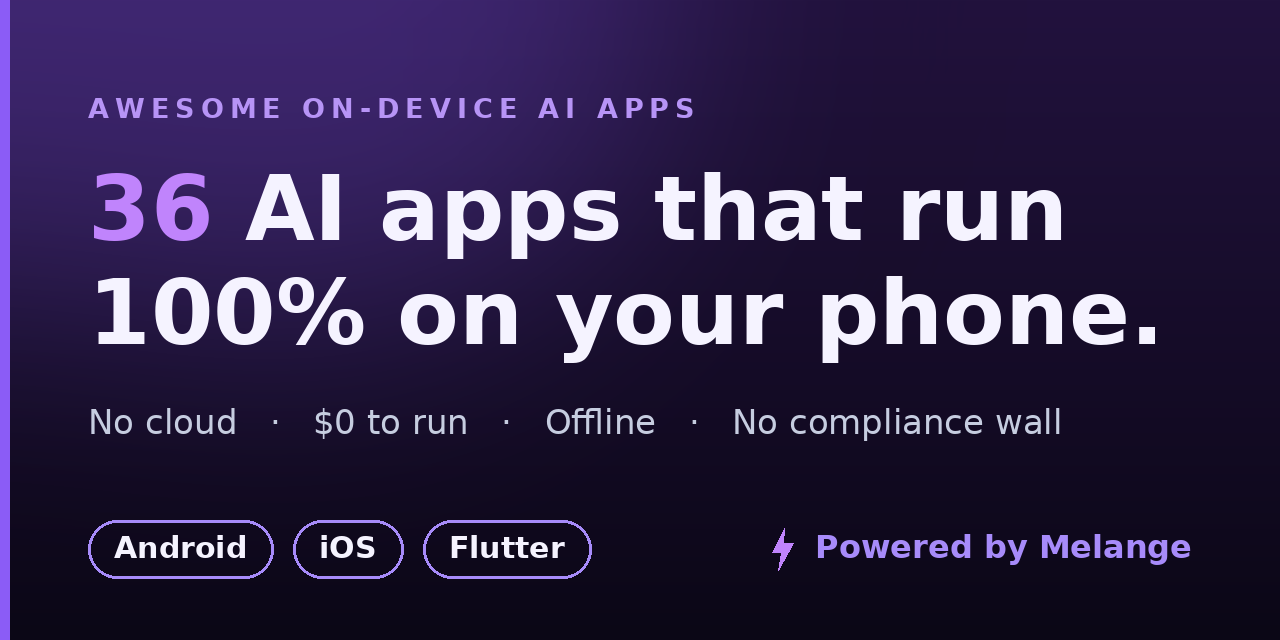
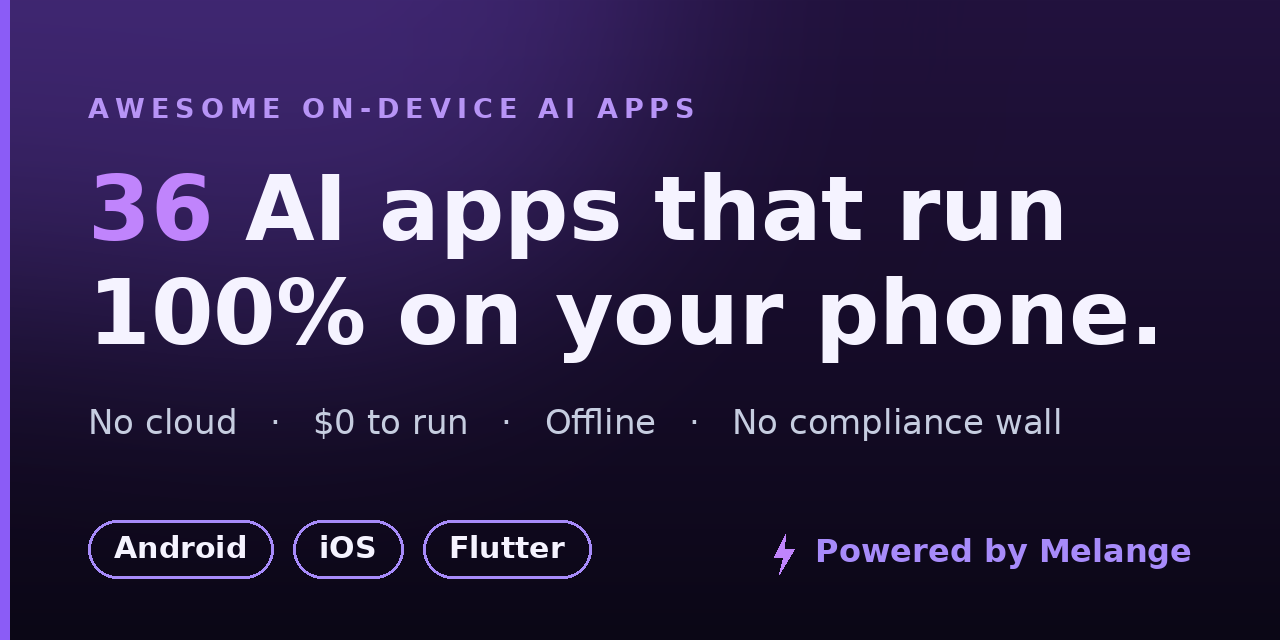
Add vibe-coding social card variant
Second 1280x640 card on the same brand system: 'Your AI coding agent
can't build on-device apps. These 36 can.' The generator now renders both
the concrete-claim card and the vibe-coding hook card.

Changed region(s): [[0.5938, 0.8125, 0.9375, 0.9062]]

diff --git a/docs/assets/make_social_preview.py b/docs/assets/make_social_preview.py
@@ -1,24 +1,21 @@
 #!/usr/bin/env python3
-"""Render the GitHub social preview card (1280x640 PNG).
+"""Render the GitHub social preview cards (1280x640 PNG).
 
     python3 docs/assets/make_social_preview.py
 
-Output: docs/assets/social-preview.png
-Upload it at repo Settings -> General -> Social preview.
+Outputs:
+  docs/assets/social-preview.png             (default: the concrete claim)
+  docs/assets/social-preview-vibecoding.png  (the vibe-coding hook)
+
+Upload one at repo Settings -> General -> Social preview.
 """
 import os
 from PIL import Image, ImageDraw, ImageFont, ImageFilter
 
 W, H = 1280, 640
 M = 88  # left margin
-OUT = os.path.join(os.path.dirname(os.path.abspath(__file__)), "social-preview.png")
+HERE = os.path.dirname(os.path.abspath(__file__))
 FONT_DIR = "/usr/share/fonts/truetype/dejavu"
-
-
-def font(name, size):
-    return ImageFont.truetype(os.path.join(FONT_DIR, name), size)
-
-
 BOLD = "DejaVuSans-Bold.ttf"
 REG = "DejaVuSans.ttf"
 
@@ -29,13 +26,16 @@ MUTED = (198, 205, 224)
 KICKER = (183, 148, 246)
 
 
+def font(name, size):
+    return ImageFont.truetype(os.path.join(FONT_DIR, name), size)
+
+
 def lerp(a, b, t):
     return int(a + (b - a) * t)
 
 
 def background():
-    top = (34, 18, 62)
-    bot = (11, 7, 22)
+    top, bot = (34, 18, 62), (11, 7, 22)
     img = Image.new("RGB", (W, H))
     px = img.load()
     for y in range(H):
@@ -43,13 +43,13 @@ def background():
         row = (lerp(top[0], bot[0], t), lerp(top[1], bot[1], t), lerp(top[2], bot[2], t))
         for x in range(W):
             px[x, y] = row
-    # soft purple glow, top-left light source
     glow = Image.new("RGBA", (W, H), (0, 0, 0, 0))
-    gd = ImageDraw.Draw(glow)
-    gd.ellipse([-200, -320, 760, 420], fill=(139, 92, 246, 70))
+    ImageDraw.Draw(glow).ellipse([-200, -320, 760, 420], fill=(139, 92, 246, 70))
     glow = glow.filter(ImageFilter.GaussianBlur(150))
     img = Image.alpha_composite(img.convert("RGBA"), glow).convert("RGB")
-    return img
+    d = ImageDraw.Draw(img)
+    d.rectangle([0, 0, 9, H], fill=(139, 92, 246))  # brand spine
+    return img, d
 
 
 def draw_spaced(draw, xy, text, fnt, fill, spacing):
@@ -61,71 +61,78 @@ def draw_spaced(draw, xy, text, fnt, fill, spacing):
 
 
 def lightning(draw, x, y, h, fill):
-    # simple bolt, height h, anchored top-left at (x, y)
     w = h * 0.55
-    pts = [
-        (x + w * 0.55, y),
-        (x + w * 0.05, y + h * 0.58),
-        (x + w * 0.45, y + h * 0.58),
-        (x + w * 0.30, y + h),
-        (x + w * 0.95, y + h * 0.38),
-        (x + w * 0.52, y + h * 0.38),
-    ]
+    pts = [(x + w * 0.55, y), (x + w * 0.05, y + h * 0.58), (x + w * 0.45, y + h * 0.58),
+           (x + w * 0.30, y + h), (x + w * 0.95, y + h * 0.38), (x + w * 0.52, y + h * 0.38)]
     draw.polygon(pts, fill=fill)
-    return w
 
 
-def main():
-    img = background()
-    d = ImageDraw.Draw(img)
+def melange_mark(d, baseline_y, size=30):
+    label = "Powered by Melange"
+    mf = font(BOLD, size)
+    tw = d.textlength(label, font=mf)
+    lightning(d, W - M - tw - 42, baseline_y + 2, size + 8, ACCENT2)
+    d.text((W - M - tw, baseline_y), label, font=mf, fill=ACCENT)
 
-    # left brand spine
-    d.rectangle([0, 0, 9, H], fill=(139, 92, 246))
 
-    # kicker
-    draw_spaced(d, (M, 92), "AWESOME ON-DEVICE AI APPS", font(BOLD, 27), KICKER, 6)
-
-    # headline
-    hl = font(BOLD, 90)
-    y1 = 156
-    x = M
-    d.text((x, y1), "36", font=hl, fill=ACCENT2)
-    x += d.textlength("36", font=hl)
-    d.text((x, y1), " AI apps that run", font=hl, fill=WHITE)
-    d.text((M, y1 + 104), "100% on your phone.", font=hl, fill=WHITE)
-
-    # subline, auto-fit width
-    sub = "No cloud   ·   $0 to run   ·   Offline   ·   No compliance wall"
-    size = 34
-    while size > 22:
-        f = font(REG, size)
-        if d.textlength(sub, font=f) <= W - 2 * M:
-            break
+def fit(d, text, name, start, minimum):
+    size = start
+    while size > minimum:
+        f = font(name, size)
+        if d.textlength(text, font=f) <= W - 2 * M:
+            return f
         size -= 1
-    d.text((M, 402), sub, font=font(REG, size), fill=MUTED)
+    return font(name, minimum)
 
-    # bottom: platform pills
+
+def render_default():
+    img, d = background()
+    draw_spaced(d, (M, 92), "AWESOME ON-DEVICE AI APPS", font(BOLD, 27), KICKER, 6)
+    hl = font(BOLD, 90)
+    x = M
+    d.text((x, 156), "36", font=hl, fill=ACCENT2)
+    x += d.textlength("36", font=hl)
+    d.text((x, 156), " AI apps that run", font=hl, fill=WHITE)
+    d.text((M, 260), "100% on your phone.", font=hl, fill=WHITE)
+    sub = "No cloud   ·   $0 to run   ·   Offline   ·   No compliance wall"
+    d.text((M, 402), sub, font=fit(d, sub, REG, 34, 22), fill=MUTED)
     py, ph = 520, 58
     pf = font(BOLD, 30)
     x = M
     for label in ("Android", "iOS", "Flutter"):
-        tw = d.textlength(label, font=pf)
-        pw = tw + 52
-        d.rounded_rectangle([x, py, x + pw, py + ph], radius=ph // 2,
-                            outline=ACCENT, width=3)
-        d.text((x + 26, py + (ph - 38) // 2), label, font=pf, fill=WHITE)
+        pw = d.textlength(label, font=pf) + 52
+        d.rounded_rectangle([x, py, x + pw, py + ph], radius=ph // 2, outline=ACCENT, width=3)
+        d.text((x + 26, py + 10), label, font=pf, fill=WHITE)
         x += pw + 20
+    melange_mark(d, py + 12, 32)
+    out = os.path.join(HERE, "social-preview.png")
+    img.save(out)
+    print("wrote", out)
 
-    # bottom-right: powered by Melange
-    mf = font(BOLD, 32)
-    label = "Powered by Melange"
-    tw = d.textlength(label, font=mf)
-    bolt_w = lightning(d, W - M - tw - 44, py + 8, 42, ACCENT2)
-    d.text((W - M - tw, py + (ph - 42) // 2), label, font=mf, fill=ACCENT)
 
-    img.save(OUT)
-    print("wrote", OUT, img.size)
+def render_vibecoding():
+    img, d = background()
+    hook = font(BOLD, 62)
+    d.text((M, 84), "Your AI coding agent", font=hook, fill=WHITE)
+    x = M
+    d.text((x, 160), "can't", font=hook, fill=ACCENT2)
+    x += d.textlength("can't", font=hook)
+    d.text((x, 160), " build on-device apps.", font=hook, fill=WHITE)
+
+    d.rounded_rectangle([M, 286, M + 96, 292], radius=3, fill=ACCENT)  # beat
+
+    turn = font(BOLD, 84)
+    d.text((M, 322), "These 36 can.", font=turn, fill=ACCENT2)
+    sub = "Real apps, running 100% on the phone.   Private · $0 · Offline."
+    d.text((M, 430), sub, font=fit(d, sub, REG, 33, 22), fill=MUTED)
+
+    draw_spaced(d, (M, 560), "AWESOME ON-DEVICE AI APPS", font(BOLD, 24), KICKER, 4)
+    melange_mark(d, 558, 30)
+    out = os.path.join(HERE, "social-preview-vibecoding.png")
+    img.save(out)
+    print("wrote", out)
 
 
 if __name__ == "__main__":
-    main()
+    render_default()
+    render_vibecoding()